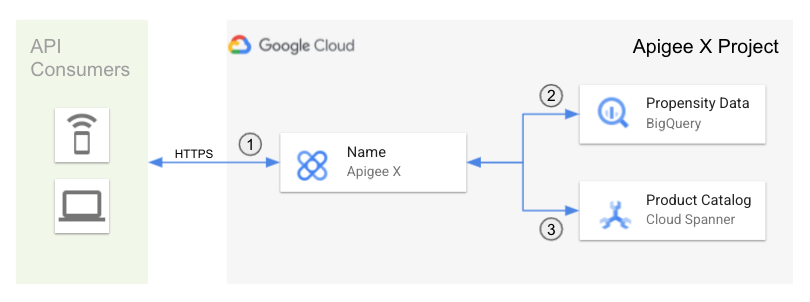
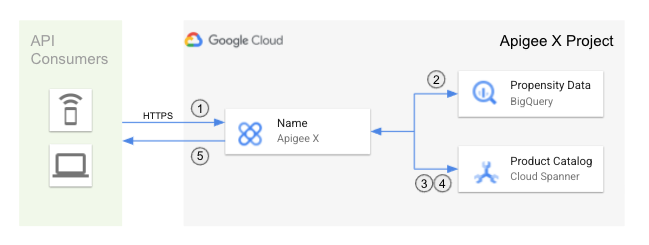
Added proxy flow description

diff --git a/README.md b/README.md
@@ -5,14 +5,21 @@
 
 This demo shows how to bild a smart API that predicts customer propensity to buy using an Apigee X proxy, BigQuery ML and Cloud Spanner.
 Cloud Spanner holds a small Product Catalog with rich content, such as descriptions and image references. 
-BigQuery contains a sample dataset for the complete Product Catalog and a number of simulated users. 
+BigQuery contains a sample dataset for the complete Product Catalog IDs and a number of simulated users. 
 It uses Machine Learning to predict their propensity to buy based on the time the user spends on an item, termed the "predicted session duration confidence".
+
 Apigee exposes an API that proxies to BigQuery to get the product IDs and the "predicted session duration confidence" for a particular user and then makes a callout to Spanner to get the rich product content.
 The proxy then combines that to create the priority sorted result that is sent in the response.
 
 ### Architecture Diagram
 ![Architecture Diagram](product-recommendations-v1.png)
 
+Step Descriptions:
+1. Client request to GET /v1/recommendations/products
+2. Apigee extracts user ID from request header and creates a SQL query using Assign Message policy that is sent to BigQuery.
+3. Apigee extracts the response from BigQuery and first creates a Spanner session via Service Callout policy,
+4. Then creates a SQL query for Spanner using another Service Callout policy to get the ordered response based on the BigQuery prepensity rating returned from BigQuery.
+5. Finally, Apigee formats the response using JavaScript to match the response definition from the Open API Specification.
 
 ## Prerequisites 
 
